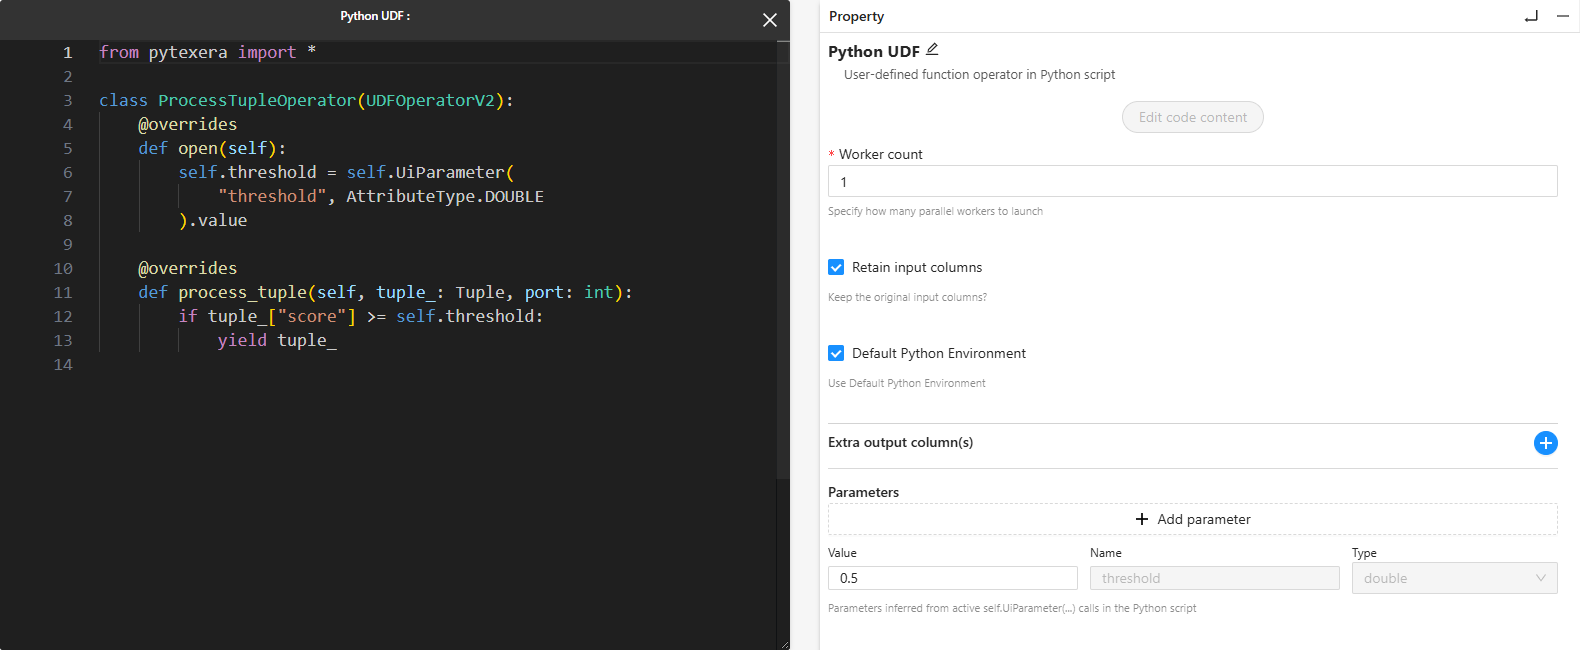
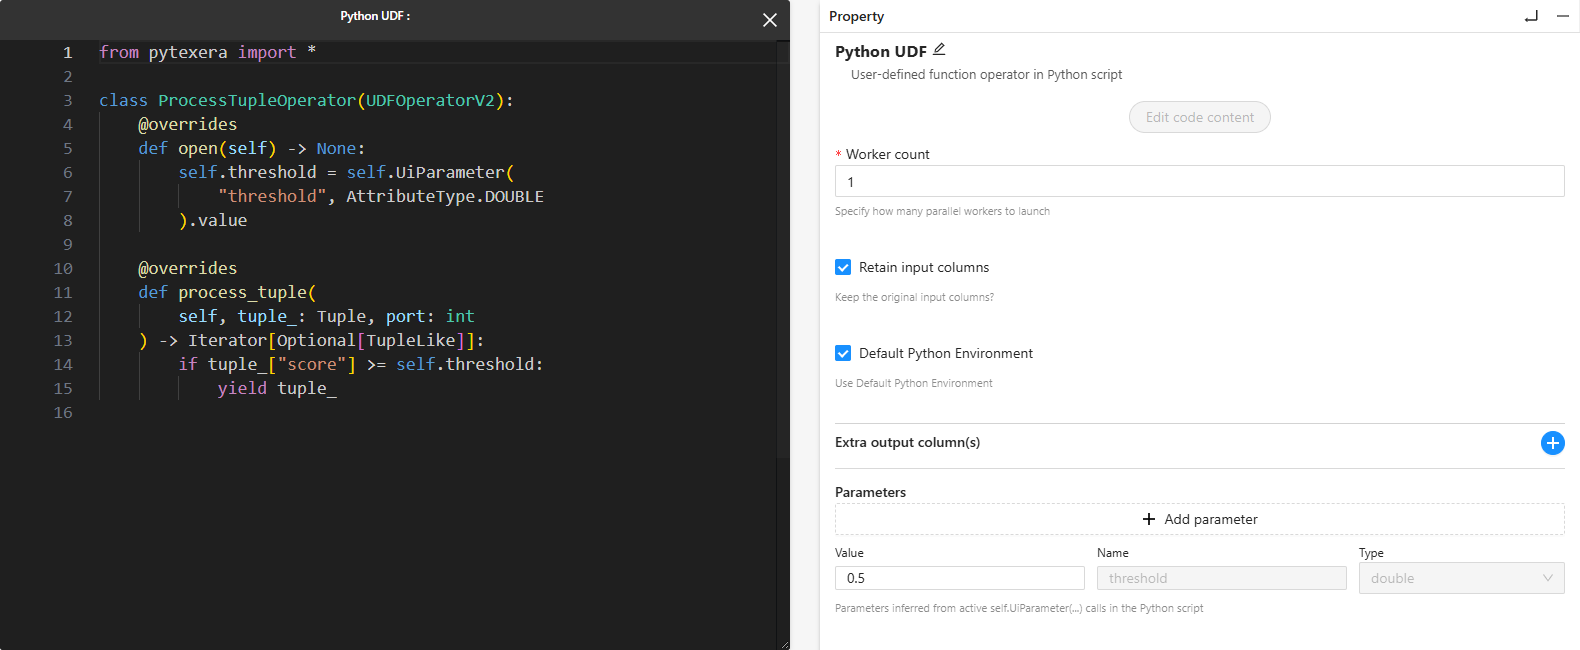
fix(blog): make the Python UDF example executable

diff --git a/content/blog/python-udf-ui-parameters/index.md b/content/blog/python-udf-ui-parameters/index.md
@@ -35,7 +35,7 @@ tags: ["python", "udf", "ui-parameters", "workflows"]
 
 <p class="feature-kicker"><strong>Feature Introduction · Apache Texera</strong></p>
 
-<p>Python UDFs let workflow authors add custom logic to Texera. Many of those scripts also contain values that change between runs: a score threshold, a maximum number of results, or a switch for an optional step. Hardcoding each choice means opening the script whenever it changes.</p>
+<p>Python user-defined functions (UDFs) let workflow authors add custom logic to Texera. Many of those scripts also contain values that change between runs: a score threshold, a maximum number of results, or a switch for an optional step. Hardcoding each choice means opening the script whenever it changes.</p>
 
 <p>Python UDF UI parameters in Texera 1.3 let workflow authors expose those choices in the operator’s <strong>Parameters</strong> panel. The author defines the custom logic and the parameter’s type; someone running the workflow can then enter a new value and rerun it without editing the Python script.</p>
 
@@ -49,13 +49,15 @@ tags: ["python", "udf", "ui-parameters", "workflows"]
 
 class ProcessTupleOperator(UDFOperatorV2):
     @overrides
-    def open(self):
+    def open(self) -> None:
         self.threshold = self.UiParameter(
             "threshold", AttributeType.DOUBLE
         ).value
 
     @overrides
-    def process_tuple(self, tuple_: Tuple, port: int):
+    def process_tuple(
+        self, tuple_: Tuple, port: int
+    ) -> Iterator[Optional[TupleLike]]:
         if tuple_["score"] &gt;= self.threshold:
             yield tuple_
 </code></pre>
@@ -64,11 +66,19 @@ class ProcessTupleOperator(UDFOperatorV2):
 
 <h2><span class="section-number">02</span> Change the value and rerun</h2>
 
-<p>To try the example:</p>
+<p>For a small input you can reproduce, save the following as a CSV file:</p>
+
+<pre><code class="language-csv">score
+0.42
+0.76
+0.91
+</code></pre>
+
+<p>Then configure the workflow:</p>
 
 <ol>
 <li>
-<p>Connect a source containing a numeric <code>score</code> column to a <strong>Python UDF</strong>, and connect its output to a result operator.</p>
+<p>Import the CSV with a <strong>CSV File Scan</strong> operator and set the <code>score</code> column’s type to <strong>double</strong>. Connect its output to a <strong>Python UDF</strong>.</p>
 </li>
 <li>
 <p>Paste the code above into the UDF’s code editor. Keep <strong>Retain input columns</strong> enabled; this example adds no output columns.</p>
@@ -77,7 +87,7 @@ class ProcessTupleOperator(UDFOperatorV2):
 <p>In the <strong>Parameters</strong> panel, enter <code>0.5</code> in the Value field for <code>threshold</code>.</p>
 </li>
 <li>
-<p>Run the workflow and inspect the results.</p>
+<p>Run the workflow and inspect the Python UDF’s output in the results panel.</p>
 </li>
 <li>
 <p>Change the value to <code>0.8</code> and rerun the workflow.</p>
@@ -117,7 +127,7 @@ class ProcessTupleOperator(UDFOperatorV2):
 
 <p><img alt="Adding an integer max_results parameter" src="/images/blog_hero/python-udf-ui-parameters-add.png"/></p>
 
-<p><em>Adding max_results as an integer parameter from the panel.</em></p>
+<p><em>Choosing integer for a new max_results parameter. Confirming adds its declaration to the script.</em></p>
 
 <p>The panel keeps the parameter’s <strong>Name</strong> and <strong>Type</strong> read-only because they come from the script; <strong>Value</strong> remains editable. Changing a declaration in the code updates the parameter rows. Existing values are preserved by parameter name, so renaming a parameter requires entering its value again. Commented-out declarations do not create parameter rows.</p>
 
